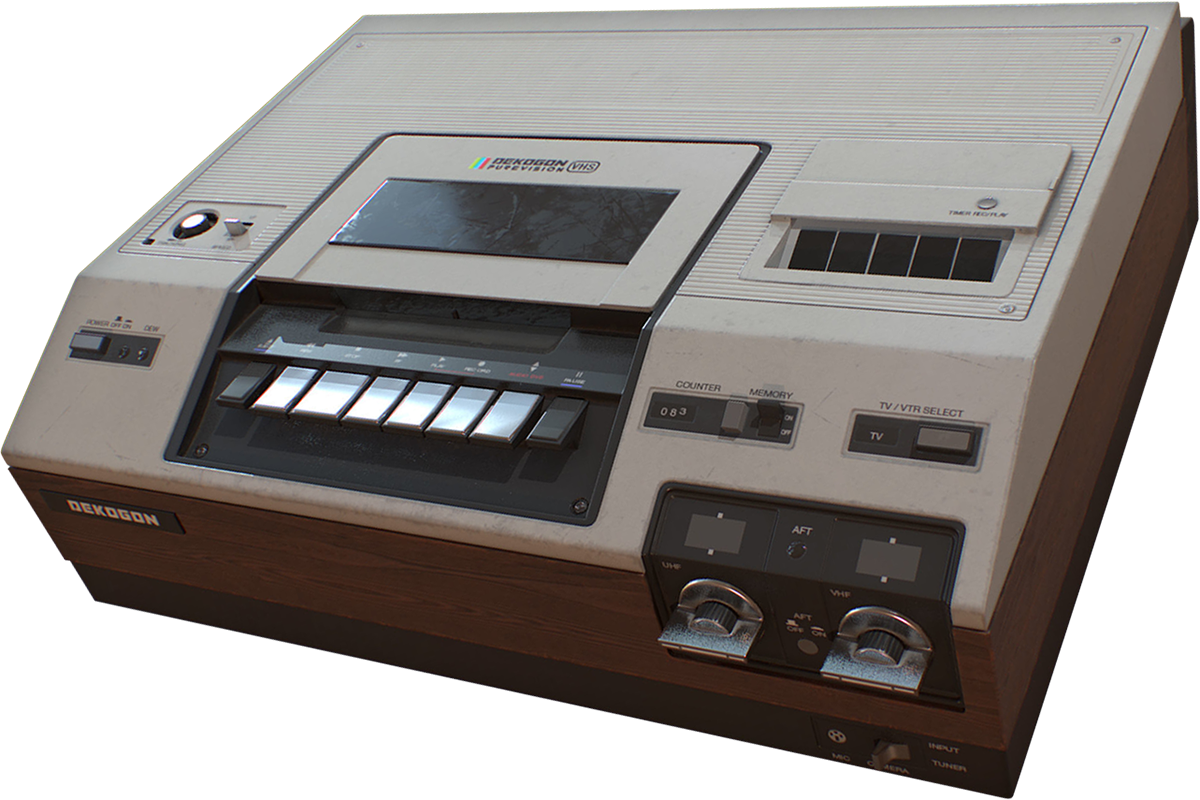
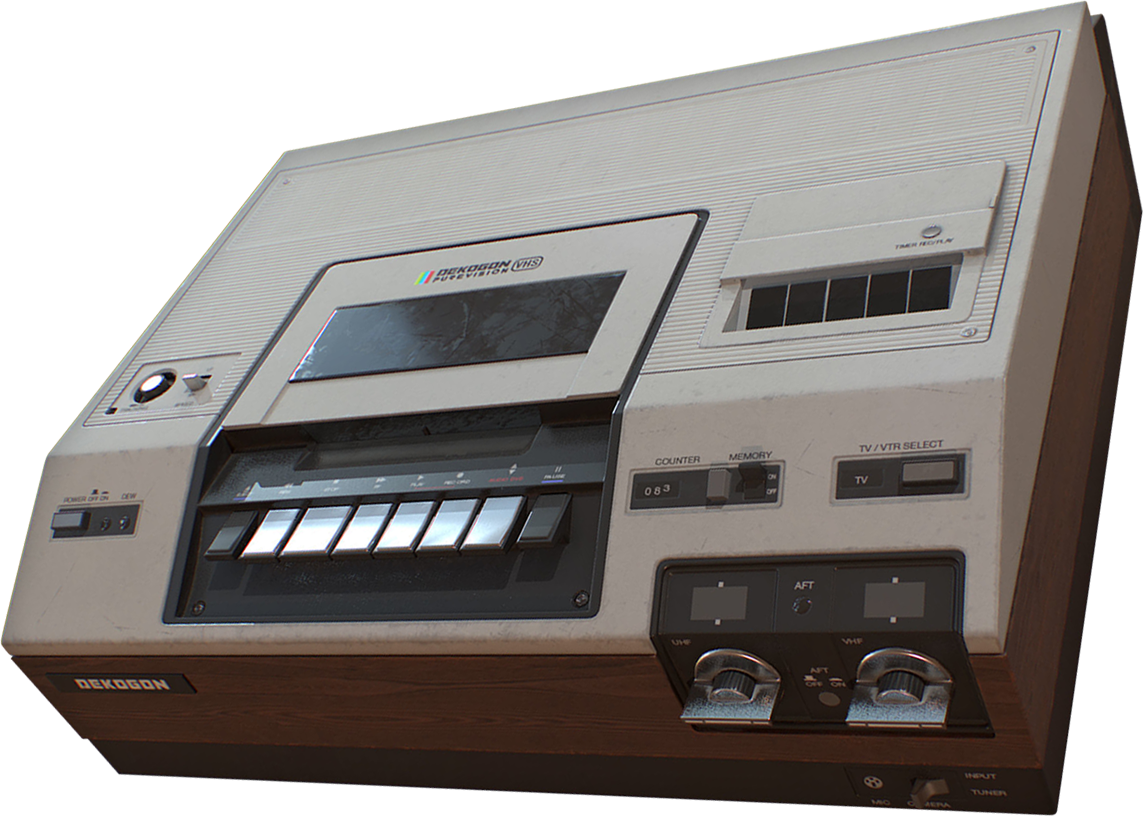
HOTFIX collision de la camara.

diff --git a/index.html b/index.html
@@ -8,14 +8,14 @@
   </head>
   <body>
     <div id="splash">
-      <div id="wall" depth="13"></div>
+      <div id="wall" depth="15"></div>
       <div class="scene-element" id="camera" depth="10" rotation="-20">
         <img src="src/camera.png" height="600">
       </div>
       <div class="scene-element" id="vhs" depth="5" rotation="-25">
         <img src="src/vhs.png">
       </div>
-      <div class="scene-element" id="recorder" depth="1">
+      <div class="scene-element" id="recorder" depth="2" rotation="10">
         <img src="src/recorder.png">
       </div>
     </div>
@@ -79,7 +79,7 @@
       };
       const changeSceneAngle = () => {
         let x = (window.innerWidth / 2) - xMousePos;
-        let y = (window.innerHeight / 2) - yMousePos + window.scrollY;
+        let y = (window.innerHeight / 2) - yMousePos + (window.scrollY * 2);
 
         for(let obj of objArray){
           obj.setTransform(x, y);
@@ -89,8 +89,8 @@
       changeSceneFocus();
       changeSceneAngle();
 
-      var xMousePos;
-      var yMousePos;
+      var xMousePos = window.innerWidth / 2;
+      var yMousePos = window.innerHeight / 2;
 
       window.addEventListener("mousemove", (event) => {
         xMousePos = event.clientX;

diff --git a/css/style.css b/css/style.css
@@ -63,6 +63,6 @@ html, body{
   color: white;
 } */
 #recorder{
-  top: -10%;
+  top: -30%;
   left: 70%;
 }
